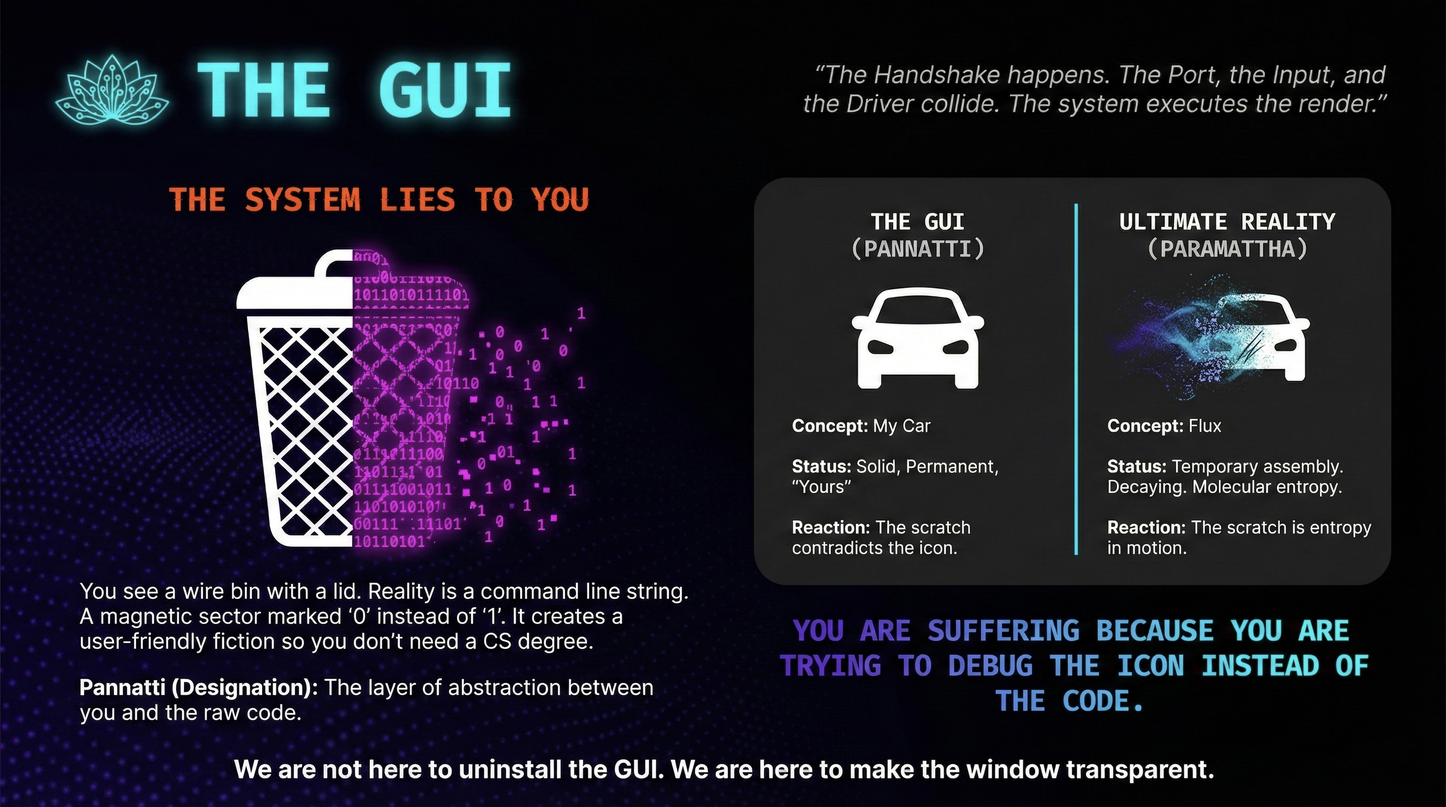
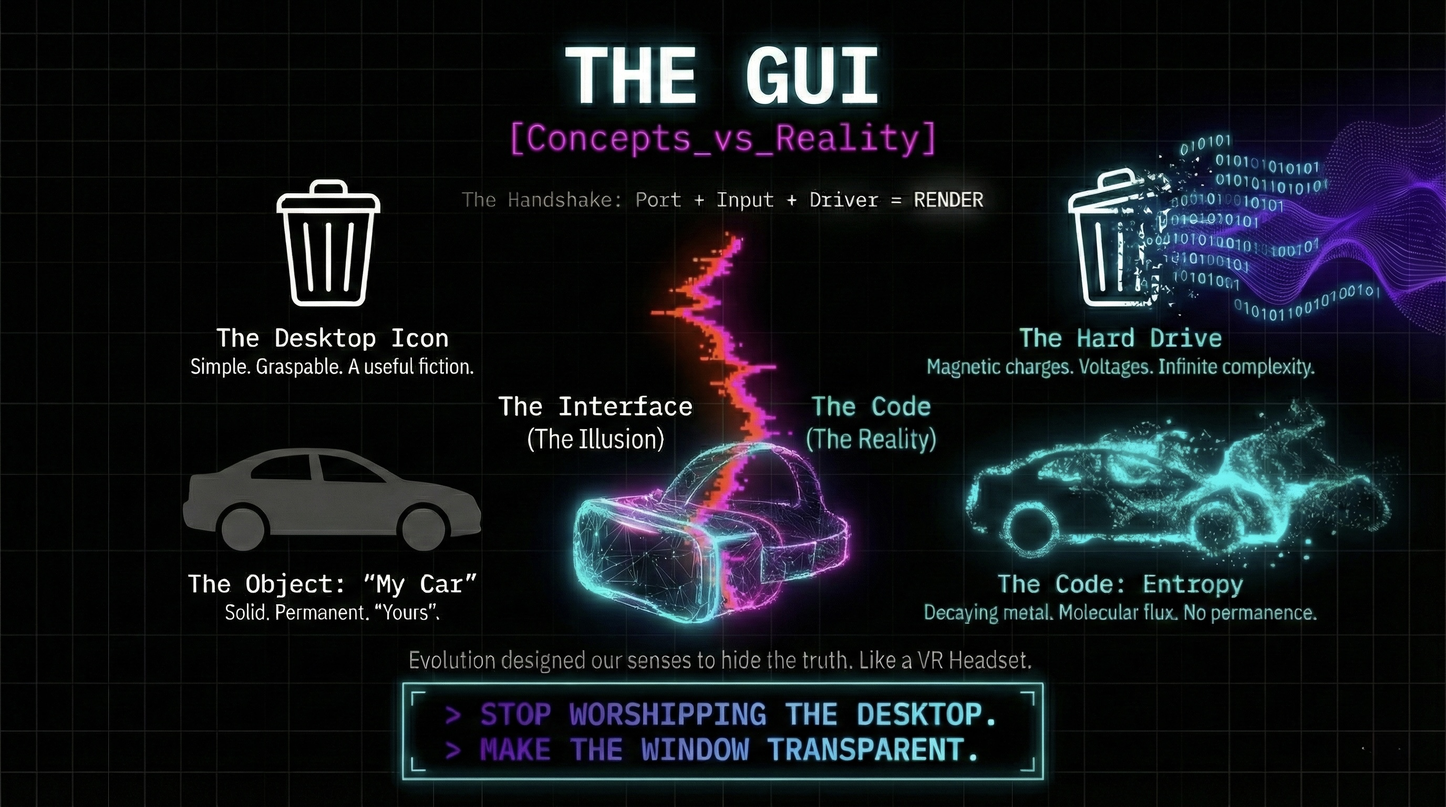
update GUI infographic

diff --git a/src/01_diagnostic/ch02_02_gui.md b/src/01_diagnostic/ch02_02_gui.md
@@ -1,5 +1,5 @@
 ---
-### 2.2 The GUI
+### 2.2 The GUI (Concepts vs. Reality)
 
 ![Image](/assets/infographics/TPS_IMG_TheGUI.jpg)
 
@@ -9,27 +9,37 @@ Now, what do you see?
 
 You don't see a raw stream of photons hitting your retina. You see a "Coffee Mug."
 
-This is the **Graphical User Interface (GUI)**.
+This is the Graphical User Interface (GUI).
 
 In the legacy manuals, this is called *Pannatti*. It translates to "concept" or "designation." It is the layer of abstraction that sits between you and the raw code.
 
-Think about the "Trash Can" icon on your desktop.
+Cognitive scientist Donald Hoffman calls this the "Interface Theory of Perception."
 
-It looks like a little wire bin. It has a lid. It might even make a crinkling paper sound when you use it.
+He argues that evolution didn't design our senses to show us the truth. It designed them to hide the truth.
+
+Think of it like a VR headset.
+
+If you had to navigate the actual quantum field to grab a sandwich, you would never eat. You would be paralyzed by the infinite complexity of superpositions and wave functions. You would starve to death.
+
+So the system lies to you. It renders a simple, graspable icon called "Sandwich."
+
+Hoffman uses the "Desktop Interface" analogy. Look at the blue trash can icon on your computer screen.
+
+It looks like a little wire bin. It has a lid. It might even make a satisfying *crumple* sound when you use it.
 
 But is there a tiny wire bin inside your hard drive? No.
 
-The reality is a command line string. It is a sector of magnetic storage being marked as "0" instead of "1." If the computer showed you the actual process, you would never delete a file again. It would be too complex.
+The reality is a complex sequence of magnetic charges, voltages, and software pointers. If the computer showed you the actual voltages required to delete a file, you would never get any work done.
 
-So the system lies to you. It gives you a cute icon. It creates a user-friendly fiction so you can navigate the OS without a degree in computer science.
+The icon is there to simplify your execution. It is a useful fiction.
 
-**The Map is Not the Territory**
+### The Map is Not the Territory
 
 The problem isn't the GUI. The GUI is useful. You need it to drive to work, pay taxes, and not walk into walls.
 
 The problem is that you think the GUI is the Operating System.
 
-You mistake the **Concept** (*Pannatti*) for **Ultimate Reality** (*Paramattha*).
+You mistake the Concept (*Pannatti*) for Ultimate Reality (*Paramattha*).
 
 * **Ultimate Reality:** A vibrating, changing flux of color, shape, and temperature.
 * **The GUI:** "My Car."
